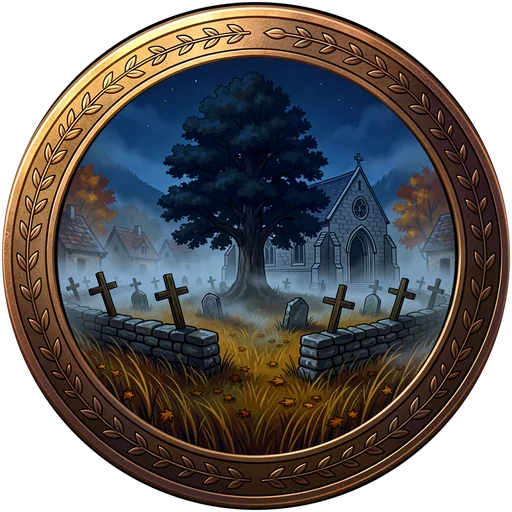
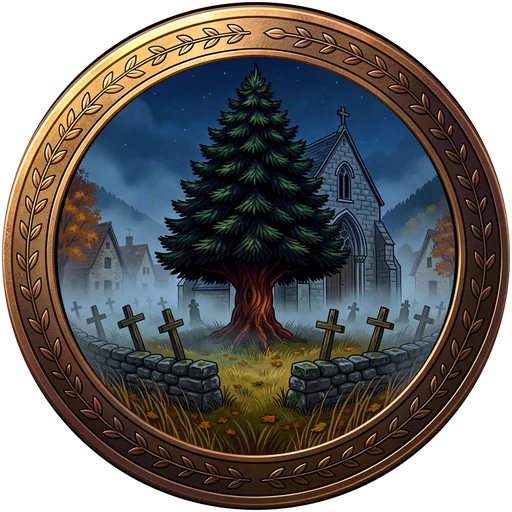
Jetons peints retouches (7) ; systeme 0.14.3, contenu 0.17.3
Messager, Lavandiere, Chasseur de primes, Joueur de vielle, Maitresse
d'ecole, Eclusiere et Cimetiere refaits a la demande de Jordan.

diff --git a/modules/lakour-veillees/scripts/main.js b/modules/lakour-veillees/scripts/main.js
@@ -16,7 +16,7 @@ const SYSTEME = "lakour-loups";
 // d'ours, Pèlerine), Banc des accusés, Glas du deuil, Nuit de la Saint-Martin (système 0.8.0) ; 0.11.0 : secrets hors des
 // documents (système 0.9.0) ; 0.12.0 : les Veillées de fête (système 0.10.0), un journal illustré par veillée, déclinées auprès du
 // socle des fêtes du moteur (lakour-mj-ia, api.fetes) ; 0.14.0 : le livre de Brumecombe (journal d'univers, lisible des joueurs).
-const VERSION_CONTENU = "0.17.2";
+const VERSION_CONTENU = "0.17.3";
 
 const { ApplicationV2, HandlebarsApplicationMixin, DialogV2 } = foundry.applications.api;
 

diff --git a/CHANGELOG.md b/CHANGELOG.md
@@ -4,6 +4,12 @@ Deux numéros de version avancent ensemble : celui du **système** `lakour-loups
 `lakour-veillees`. Chaque publication GitHub (étiquette `v<version du système>`) emporte les deux, plus le monde vierge.
 Le moteur commun `lakour-mj-ia` a son propre journal dans [son dépôt](https://github.com/Hogun974/lakour-mj-ia).
 
+## Système 0.14.3 · Contenu 0.17.3 — 9 novembre 2026
+
+- **Jetons peints retouchés** : Messager (rouleau cacheté, sans écriture), Lavandière (teint naturel), Chasseur de primes
+  (manteau de cuir et chapeau de feutre médiévaux), Joueur de vielle (vielle à roue avec sa manivelle), Maîtresse d'école
+  (ardoise noire vierge), Éclusière (vanne à crémaillère et manivelle) et Cimetière (son if).
+
 ## Système 0.14.2 · Contenu 0.17.2 — 9 novembre 2026
 
 Moteur MJ IA 0.46.0 au minimum.
